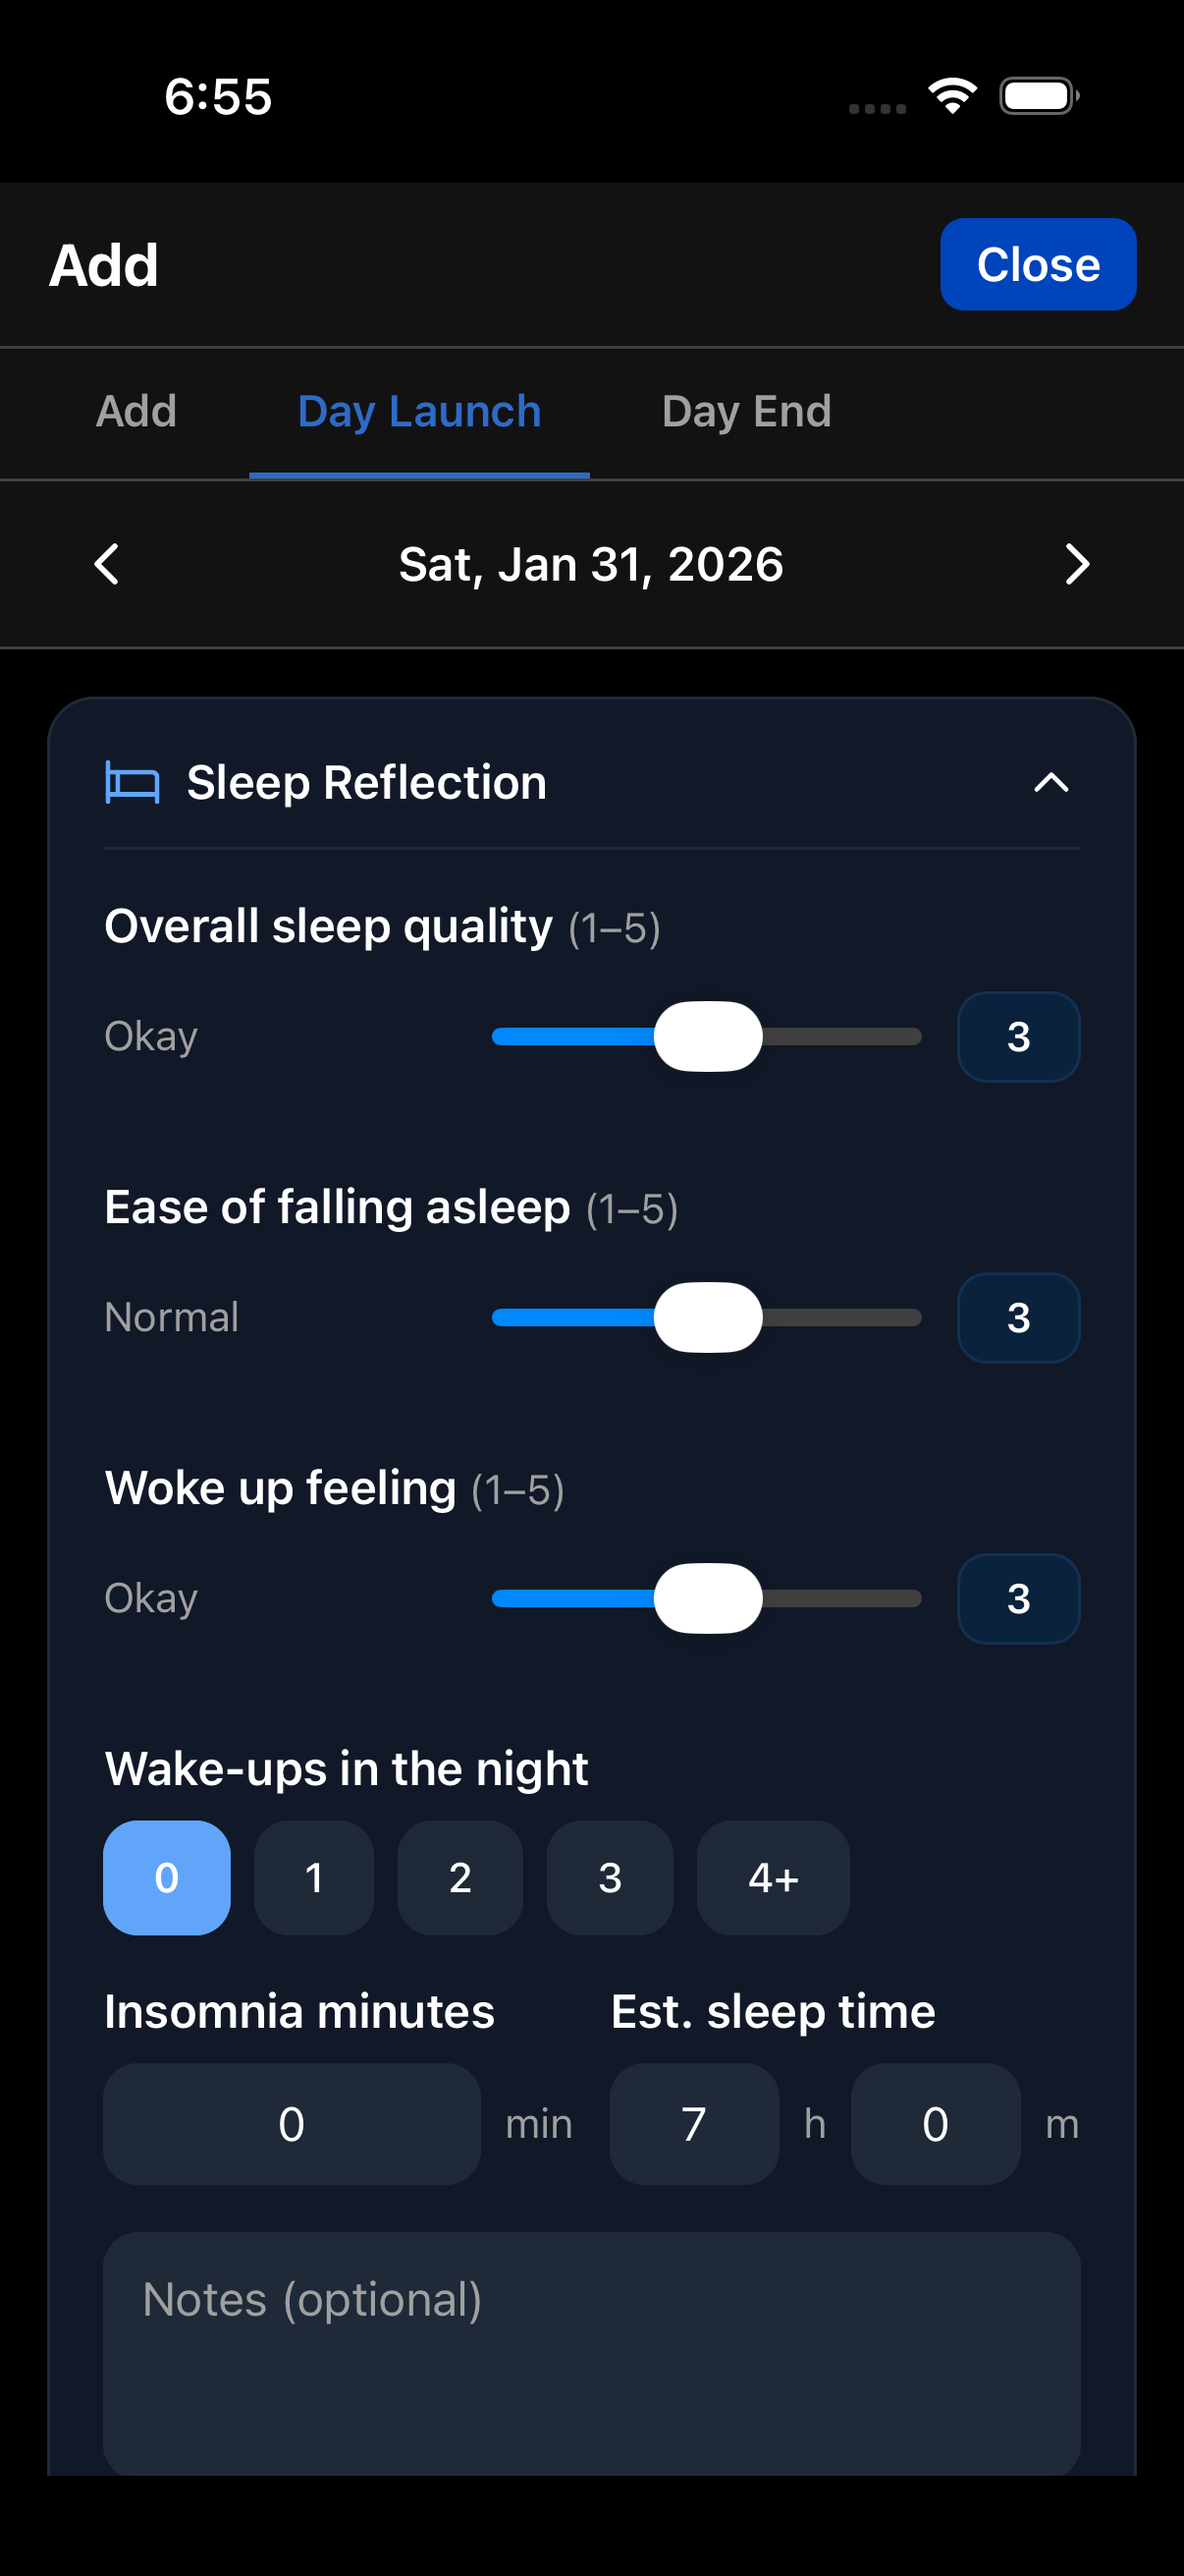
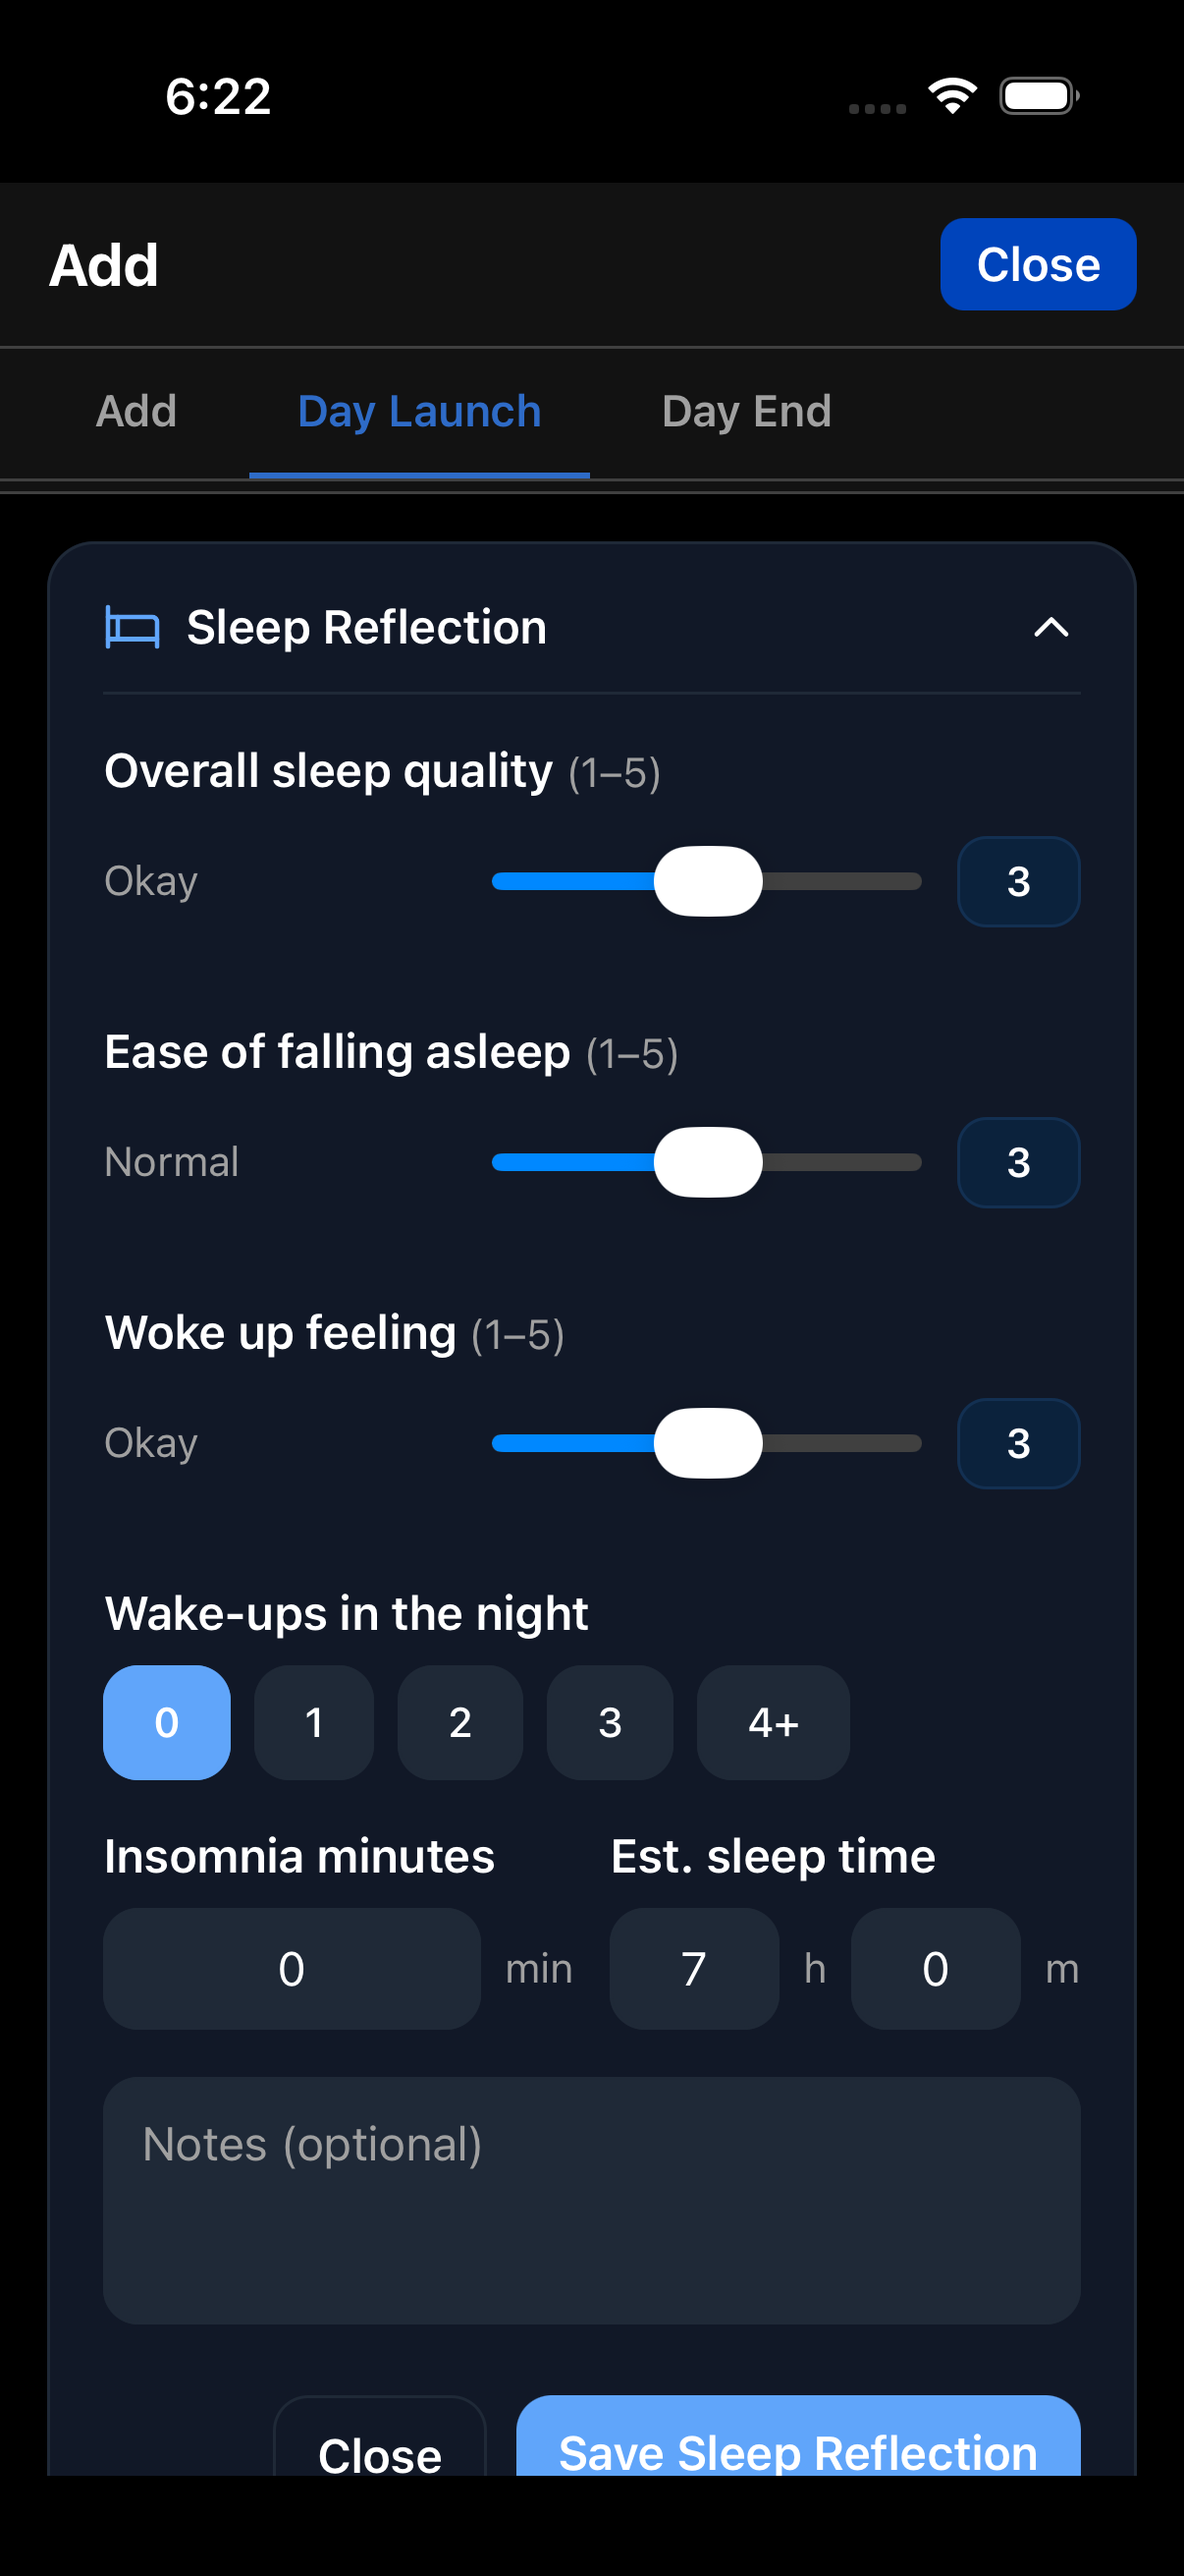
Update user guide with onboarding content, new screenshots, and new features
- Add "Your Data Is Missing Something" messaging to README
- Document onboarding flow in getting-started guide
- Add Scheduling section to settings and pro-features guides
- Add Screen Time (Pro) with three display mode screenshots
- Add Day View with Sun Clock (Pro) section
- Add Siri Input (Pro) section
- Update screenshots: metrics, day-launch, day-end, habits, pomodoro, settings
- Add new screenshots: add-dialog, no-entries, one-set-of-entries, populated, second-set-of-entries, scheduling, screentime views

diff --git a/guide/pro-features.md b/guide/pro-features.md
@@ -90,6 +90,58 @@ Completed Pomodoro sessions integrate with your TriLog data. See how focused wor
 
 ---
 
+## Screen Time
+
+Screen Time shows your app usage alongside mood, energy, and activities on a single chart. This makes it easy to spot how device usage relates to how you feel.
+
+<img src="../images/screentime-menu.png" alt="Screen Time menu" width="350">
+
+### Display Modes
+
+Screen Time offers multiple display modes so you can compare patterns from different angles:
+
+**Mood & Energy** — Overlay screen time with your mood and energy trends to see correlations.
+
+<img src="../images/screentime-mood-energy.png" alt="Screen Time with mood and energy" width="350">
+
+**Activity** — See screen time alongside your activity data to understand how device usage fits into your day.
+
+<img src="../images/screentime-activity.png" alt="Screen Time with activity" width="350">
+
+### What You Might Notice
+
+- High screen time in the evening correlating with worse sleep quality
+- Social media spikes during low-energy periods
+- Reduced device usage on days with more exercise or social time
+
+Screen Time doesn't judge — it just puts the data side by side so patterns become visible.
+
+---
+
+## Day View with Sun Clock
+
+Day View shows today's entries alongside an astronomical sun clock visualization. The sun clock displays sunrise, sunset, and the current position of the sun, giving your daily data a natural time context.
+
+This is a Pro feature that adds a different perspective to your day — your logged entries mapped against the rhythm of daylight.
+
+---
+
+## Scheduling
+
+Set reminders at specific times of day to check in. Access Scheduling from Menu → Extras (···).
+
+<img src="../images/scheduling.png" alt="Scheduling" width="350">
+
+Pick the times that match your routine — morning, midday, evening — and TriLog will send a notification prompting you to log. This pairs well with Quick Track for fast responses to reminders.
+
+---
+
+## Siri Input
+
+Log entries hands-free using Siri. Say something like "Log my mood in TriLog" to create an entry without opening the app. Useful when you're on the go or want minimal friction.
+
+---
+
 ## Custom Trackers
 
 Track anything not covered by the default options.

diff --git a/README.md b/README.md
@@ -6,6 +6,12 @@ TriLog displays your entire week on a single screen: mood, energy, and activitie
 
 <img src="images/main-mood-screen.png" alt="TriLog main screen" width="350">
 
+## Your Data Is Missing Something
+
+You already track steps, sleep, screen time, and heart rate. But none of that tells you how you actually *felt*. TriLog fills the gap — three quick inputs (mood, energy, activity) that turn your day into something you can see, compare, and learn from.
+
+**What gets measured gets managed.** And what gets *visualized* gets understood.
+
 ## What Makes TriLog Different
 
 Most mood trackers show you one day at a time. You tap a rating, maybe write a note, and the day disappears into a list you'll rarely revisit.
@@ -38,6 +44,8 @@ TriLog is built on a few beliefs:
 
 ## Getting Started
 
+When you first launch TriLog, a short onboarding walkthrough introduces the core concepts — what you'll track, why it matters, and how the visual grid works. After the walkthrough, a guided demo mode highlights key features with coach marks so you can explore at your own pace.
+
 New to TriLog? Start with the [User Guide](guide/index.md).
 
 ## Guide Contents
@@ -51,7 +59,7 @@ New to TriLog? Start with the [User Guide](guide/index.md).
 - [Viewing Patterns](guide/viewing-patterns.md) — Metrics, charts, and history
 - [Habits](guide/habits.md) — Daily habit tracking
 - [Settings](guide/settings.md) — Customization and backup
-- [Pro Features](guide/pro-features.md) — Quick Track, Polling, Pomodoro, and more
+- [Pro Features](guide/pro-features.md) — Quick Track, Polling, Screen Time, Pomodoro, and more
 - [Using TriLog Long-Term](guide/long-term.md) — Building a sustainable practice
 
 ## Links

diff --git a/guide/getting-started.md b/guide/getting-started.md
@@ -2,6 +2,12 @@
 
 TriLog takes under a minute to learn. Here's what you need to know.
 
+## Onboarding
+
+When you first launch TriLog, a multi-slide onboarding walkthrough introduces the core ideas: what you'll track, why it matters, and how the visual grid works. After the walkthrough, you'll accept the user agreement, then enter a guided demo mode with coach marks that highlight key features.
+
+If you skip the onboarding, an alert lets you know you can replay it later from the About dialog (Menu → About → "Replay Onboarding").
+
 ## Your First Entry
 
 1. **Tap the + button** at the bottom of the screen
@@ -12,7 +18,7 @@ TriLog takes under a minute to learn. Here's what you need to know.
 
 That's it. You've logged your first entry.
 
-<img src="../images/add.png" alt="Add entry screen" width="350">
+<img src="../images/add-dialog.png" alt="Add entry dialog" width="350">
 
 ## The Main Screen
 
@@ -23,9 +29,15 @@ The main screen shows your week as a visual grid:
 - **Colored blocks** show your activities
 - **Small indicators** show mood and energy
 
-Swipe left and right to navigate between weeks.
+Before you've logged anything, the grid starts empty:
 
-<img src="../images/main-mood-screen.png" alt="Main screen" width="350">
+<img src="../images/no-entries.png" alt="Empty chart" width="350">
+
+After your first entry, data starts appearing on the grid:
+
+<img src="../images/one-set-of-entries.png" alt="First entry on the chart" width="350">
+
+Swipe left and right to navigate between weeks.
 
 ## Finding Your Rhythm
 

diff --git a/guide/settings.md b/guide/settings.md
@@ -76,6 +76,18 @@ Deletes all entries, notes, and settings. Use with caution—this cannot be undo
 
 If you've purchased Pro on another device, use this to restore your purchase.
 
+## Scheduling
+
+Set reminders at specific times of day to check in and log your mood. Access Scheduling from Menu → Extras → Scheduling (···).
+
+<img src="../images/scheduling.png" alt="Scheduling reminders" width="350">
+
+This is a straightforward way to build a consistent logging habit. Set the times that make sense for your routine — morning, lunch, evening — and TriLog will nudge you.
+
+## About
+
+The About dialog (Menu → About) shows version information and includes a **"Replay Onboarding"** button. Tap it to re-experience the introductory walkthrough and guided demo at any time.
+
 ## Pro
 
 Access Pro features and subscription management.
@@ -101,6 +113,8 @@ See [Pro Features](pro-features.md) for details on what Pro includes.
 | Heart Rate | Appearance | RHR display (Pro) |
 | iCloud Backup | Backup | Automatic backup |
 | Export | Backup | Manual backup |
+| Scheduling | Extras | Check-in reminders |
+| Replay Onboarding | About | Re-run onboarding walkthrough |
 
 ---
 

diff --git a/guide/the-grid.md b/guide/the-grid.md
@@ -4,7 +4,7 @@ The main screen is TriLog's signature feature: an entire week displayed on a sin
 
 ## Anatomy of the Grid
 
-<img src="../images/main-mood-screen.png" alt="Main screen" width="350">
+<img src="../images/populated.png" alt="Populated weekly grid" width="350">
 
 ### Columns = Days
 
@@ -88,6 +88,12 @@ The grid view is intentionally dense. When 168 hours are visible at once:
 - **Gaps stand out.** Missing data is visible, prompting you to fill it.
 
 The goal isn't to analyze every cell. It's to let your eye catch patterns that sequential views would hide.
+
+Here's what the grid looks like before any entries, and then as data accumulates:
+
+<img src="../images/no-entries.png" alt="Empty grid" width="350">
+
+<img src="../images/second-set-of-entries.png" alt="Grid with multiple entries" width="350">
 
 ## Single Metric View
 

diff --git a/guide/day-routines.md b/guide/day-routines.md
@@ -8,7 +8,7 @@ Day Launch is for mornings. It captures how you slept and sets up your day.
 
 Access it from the Add Entry modal by tapping the "Day Launch" tab.
 
-<img src="../images/day-launch.png" alt="Day Launch screen" width="350">
+<img src="../images/day-launch.png" alt="Day Launch morning routine" width="350">
 
 ### Sleep Tracking
 
@@ -45,7 +45,7 @@ Day End is for evenings. It prompts reflection on your day and planning for tomo
 
 Access it from the Add Entry modal by tapping the "Day End" tab.
 
-<img src="../images/day-end.png" alt="Day End screen" width="350">
+<img src="../images/day-end.png" alt="Day End evening routine" width="350">
 
 ### Tomorrow's Top Targets
 

diff --git a/guide/index.md b/guide/index.md
@@ -52,7 +52,7 @@ Welcome to TriLog. This guide covers everything from basic tracking to advanced 
 ### Pro Features
 
 - **[Pro Features](pro-features.md)**
-  Quick Track, Polling, Pomodoro timer, Custom Trackers, and more.
+  Quick Track, Polling, Screen Time, Pomodoro timer, Custom Trackers, and more.
 
 ### Philosophy
 
@@ -71,6 +71,7 @@ Welcome to TriLog. This guide covers everything from basic tracking to advanced 
 | See metrics grid | Swipe right from the main chart |
 | Access settings | Menu → Settings |
 | Set up habits | Menu → Extras → Habits |
+| Set check-in reminders | Menu → Extras → Scheduling |
 | Backup your data | Menu → Settings → Backup |
 
 ---

diff --git a/guide/viewing-patterns.md b/guide/viewing-patterns.md
@@ -6,7 +6,7 @@ TriLog offers multiple ways to review your data. Each view shows different patte
 
 Swipe right from the main chart to reach the Metrics view. This grid shows daily measurements in rows:
 
-<img src="../images/metrics-14.png" alt="Metrics grid" width="350">
+<img src="../images/metrics.png" alt="Metrics grid" width="350">
 
 ### What You See
 

diff --git a/guide/habits.md b/guide/habits.md
@@ -6,7 +6,7 @@ Habits are daily recurring tasks you want to track. Unlike one-time todos, habit
 
 Access Habits from Menu → Extras → Habits.
 
-<img src="../images/habits.png" alt="Habits setup" width="350">
+<img src="../images/habits.png" alt="Habits view" width="350">
 
 ### Creating a Habit
 
